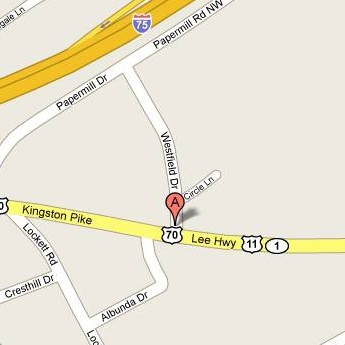
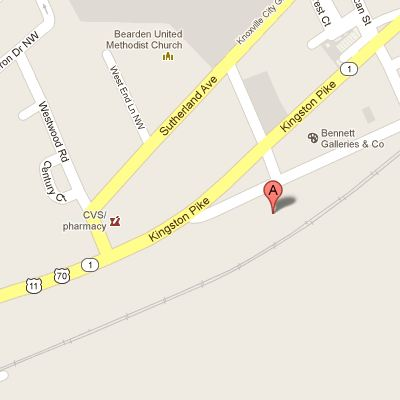
Updated with new office address and map

diff --git a/contact.html b/contact.html
@@ -34,16 +34,16 @@
 		<tr id="content">
 			<td>
                 <h2>Contact Information</h2>
-                <p>Nita Byrne, LCSW<br/><a href="http://maps.google.com/maps?q=111+Westfield+Road,+Knoxville,+TN,+37919" target="_blank">111 Westfield Road, Knoxville, TN, 37919</a><br/>(865) 300-0415</p>
-                <p><a href="http://maps.google.com/maps?q=111+Westfield+Road,+Knoxville,+TN,+37919" target="_blank"><img src="img/map.jpg" /></a></p>
+                <p>Nita Byrne, LCSW<br/><a href="http://goo.gl/maps/BO6E" target="_blank">5410 Homberg #28, Knoxville, TN 37912</a><br/>(865) 300-0415</p>
+                <p><a href="http://goo.gl/maps/BO6E" target="_blank"><img src="img/map.jpg" /></a></p>
                 <p id="disclaimer">All material provided on this website is for educational and/or informational purposes only. Direct consultation of a qualified, licensed health care provider or therapist should be sought as necessary for any specific questions or problems. This web site should not be construed as offering either medical advice or online professional services; no therapeutic relationship is established by use of this site. Please do not send emails to this site or anyone associated with it that may include confidential information. A link to any other web site from this site does not necessarily imply any approval, recommendation, or endorsement of such site.</p>
 			</td>
 		</tr>
 		<tr id="footer">
 			<td>
 				<div class="hr"><hr/></div>
-				<p class="contact"><a href="http://maps.google.com/maps?q=111+Westfield+Road,+Knoxville,+TN,+37919" target="_blank">111 Westfield Road, Knoxville, TN, 37919</a><br/>(865) 300-0415</p>
-				<p class="copyright">&copy; 2009 <a href="/">Nita Byrne, LCSW</a>. Design by <a href="http://blog.too-many-secrets.com" target="_blank">Chris Doggett</a>, inspired by <a href="http://arcsin.se" target="_blank">Arcsin</a>.</p>
+				<p class="contact"><a href="http://goo.gl/maps/BO6E" target="_blank">5410 Homberg #28, Knoxville, TN 37912</a><br/>(865) 300-0415</p>
+				<p class="copyright">&copy; 2009 <a href="/">Nita Byrne, LCSW</a>. Design by <a href="http://catopiallc.com" target="_blank">Chris Doggett</a>, inspired by <a href="http://arcsin.se" target="_blank">Arcsin</a>.</p>
 			</td>
 		</tr>
 	</table>

diff --git a/about.html b/about.html
@@ -47,8 +47,10 @@
 		<tr id="footer">
 			<td>
 				<div class="hr"><hr/></div>
-				<p class="contact"><a href="http://maps.google.com/maps?q=111+Westfield+Road,+Knoxville,+TN,+37919" target="_blank">111 Westfield Road, Knoxville, TN, 37919</a><br/>(865) 300-0415</p>
-				<p class="copyright">&copy; 2009 <a href="/">Nita Byrne, LCSW</a>. Design by <a href="http://blog.too-many-secrets.com" target="_blank">Chris Doggett</a>, inspired by <a href="http://arcsin.se" target="_blank">Arcsin</a>.</p>
+				<p class="contact"><div>
+					<a href="http://goo.gl/maps/BO6E" target="_blank">5410 Homberg #28, Knoxville, TN 37912</a>
+				</div><br/>(865) 300-0415</p>
+				<p class="copyright">&copy; 2009 <a href="/">Nita Byrne, LCSW</a>. Design by <a href="http://catopiallc.com" target="_blank">Chris Doggett</a>, inspired by <a href="http://arcsin.se" target="_blank">Arcsin</a>.</p>
 			</td>
 		</tr>
 	</table>

diff --git a/faqs.html b/faqs.html
@@ -52,8 +52,8 @@
 		<tr id="footer">
 			<td>
 				<div class="hr"><hr/></div>
-				<p class="contact"><a href="http://maps.google.com/maps?q=111+Westfield+Road,+Knoxville,+TN,+37919" target="_blank">111 Westfield Road, Knoxville, TN, 37919</a><br/>(865) 300-0415</p>
-				<p class="copyright">&copy; 2009 <a href="/">Nita Byrne, LCSW</a>. Design by <a href="http://blog.too-many-secrets.com" target="_blank">Chris Doggett</a>, inspired by <a href="http://arcsin.se" target="_blank">Arcsin</a>.</p>
+				<p class="contact"><a href="http://goo.gl/maps/BO6E" target="_blank">5410 Homberg #28, Knoxville, TN 37912</a><br/>(865) 300-0415</p>
+				<p class="copyright">&copy; 2009 <a href="/">Nita Byrne, LCSW</a>. Design by <a href="http://catopiallc.com" target="_blank">Chris Doggett</a>, inspired by <a href="http://arcsin.se" target="_blank">Arcsin</a>.</p>
 			</td>
 		</tr>
 	</table>

diff --git a/what_is_psychotherapy.html b/what_is_psychotherapy.html
@@ -42,8 +42,8 @@
 		<tr id="footer">
 			<td>
 				<div class="hr"><hr/></div>
-				<p class="contact"><a href="http://maps.google.com/maps?q=111+Westfield+Road,+Knoxville,+TN,+37919" target="_blank">111 Westfield Road, Knoxville, TN, 37919</a><br/>(865) 300-0415</p>
-				<p class="copyright">&copy; 2009 <a href="/">Nita Byrne, LCSW</a>. Design by <a href="http://blog.too-many-secrets.com" target="_blank">Chris Doggett</a>, inspired by <a href="http://arcsin.se" target="_blank">Arcsin</a>.</p>
+				<p class="contact"><a href="http://goo.gl/maps/BO6E" target="_blank">5410 Homberg #28, Knoxville, TN 37912</a><br/>(865) 300-0415</p>
+				<p class="copyright">&copy; 2009 <a href="/">Nita Byrne, LCSW</a>. Design by <a href="http://catopiallc.com" target="_blank">Chris Doggett</a>, inspired by <a href="http://arcsin.se" target="_blank">Arcsin</a>.</p>
 			</td>
 		</tr>
 	</table>

diff --git a/index.html b/index.html
@@ -79,7 +79,9 @@
 		<tr id="footer">
 			<td>
 				<div class="hr"><hr/></div>
-				<p class="contact"><a href="http://maps.google.com/maps?q=111+Westfield+Road,+Knoxville,+TN,+37919" target="_blank">111 Westfield Road, Knoxville, TN, 37919</a><br/>(865) 300-0415</p>
+				<p class="contact"><div>
+                    <a href="http://goo.gl/maps/BO6E" target="_blank">5410 Homberg #28, Knoxville, TN 37912</a>
+                </div><br/>(865) 300-0415</p>
 				<p class="copyright">&copy; 2009 <a href="/">Nita Byrne, LCSW</a>. Design by <a href="http://blog.too-many-secrets.com" target="_blank">Chris Doggett</a>, inspired by <a href="http://arcsin.se" target="_blank">Arcsin</a>.</p>
 			</td>
 		</tr>
